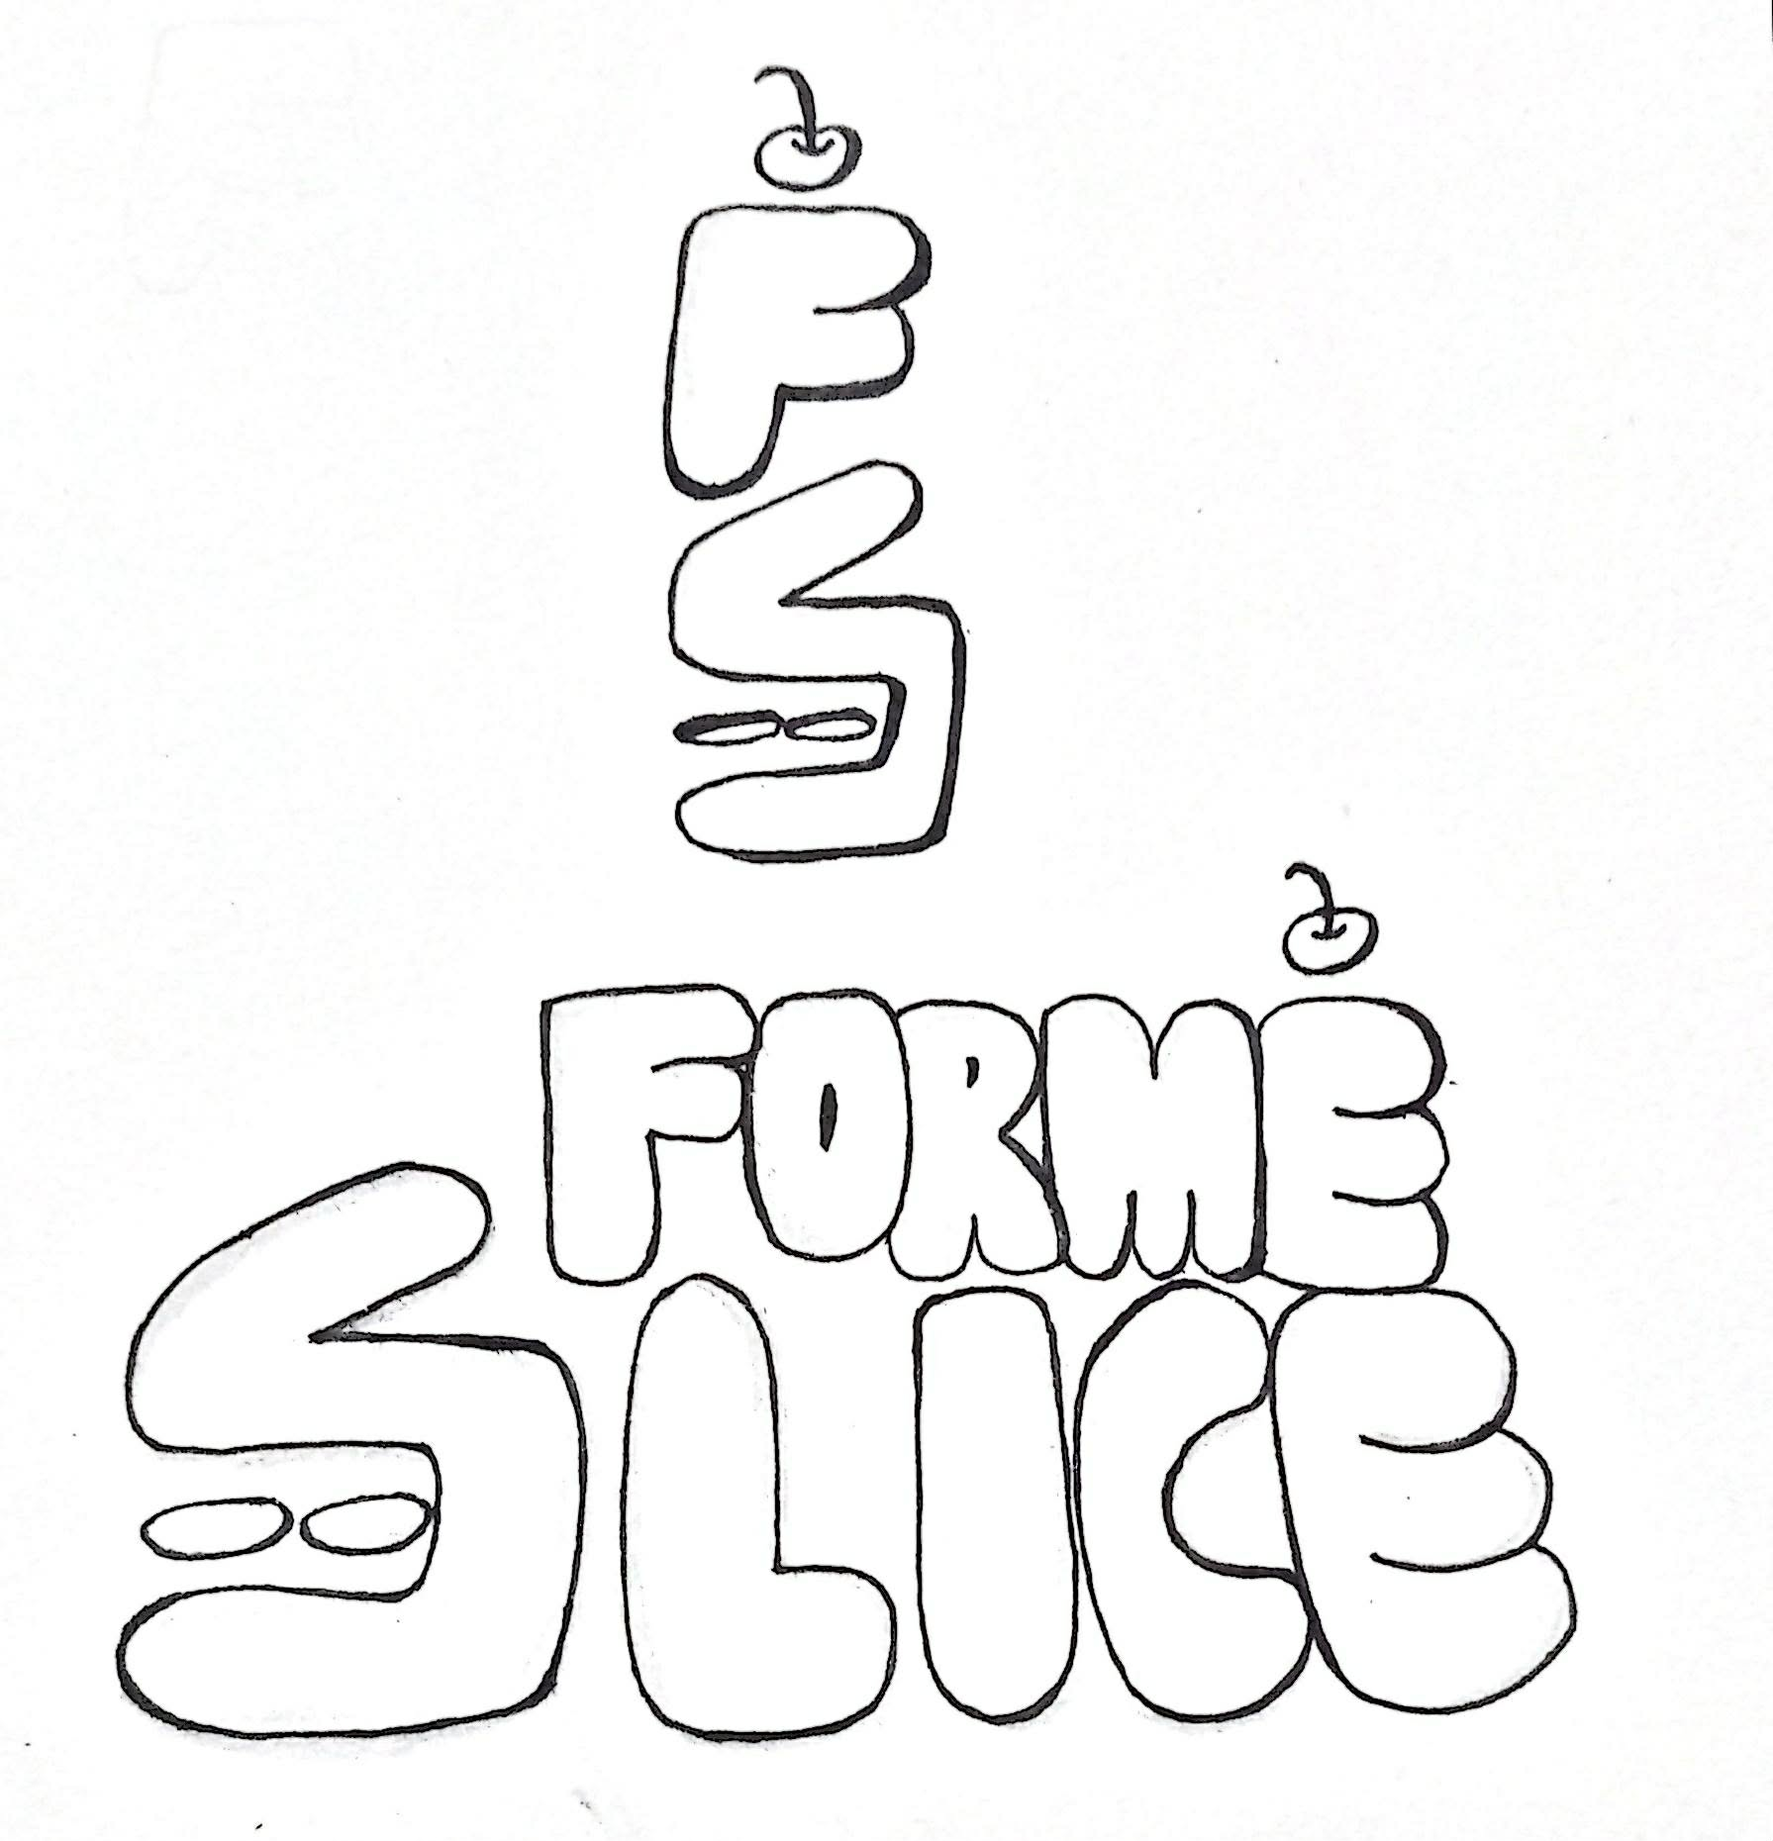
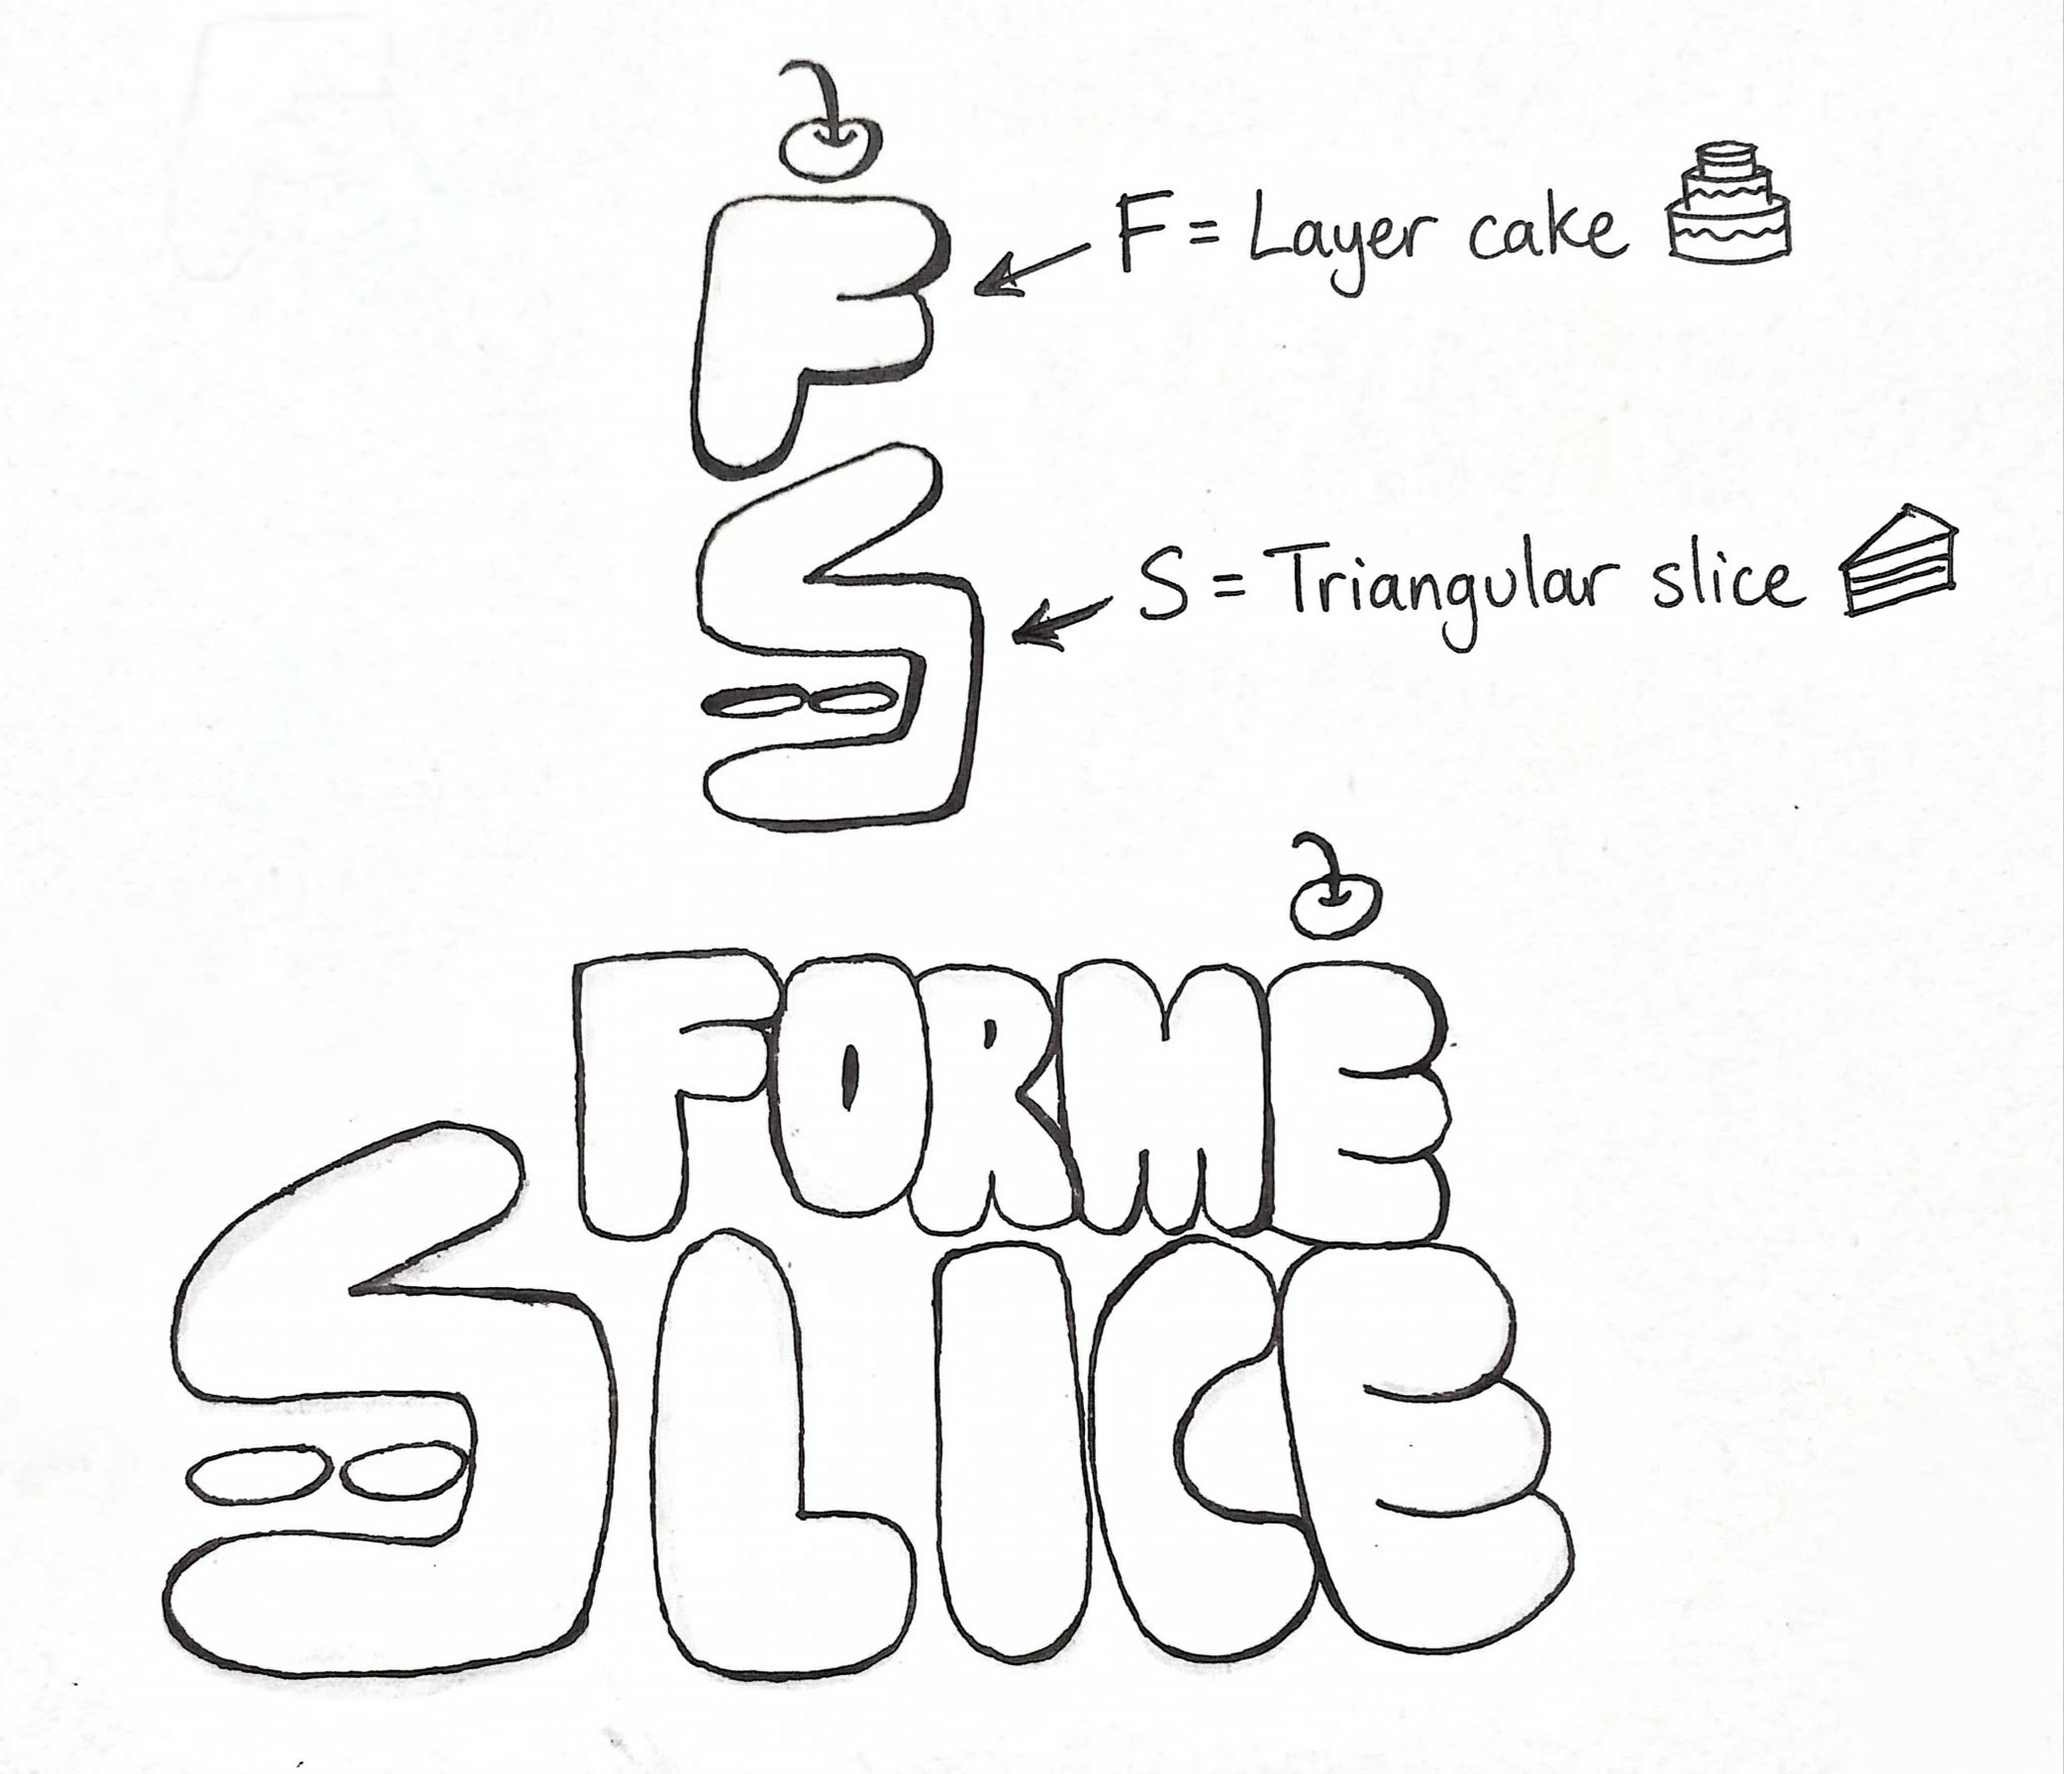
Add Sketch

diff --git a/src/app/page.tsx b/src/app/page.tsx
@@ -17,7 +17,7 @@ import { Logo } from "./logo";
 import { useVisibleAutoplay } from "./use-visible-autoplay";
 
 const archive = [
-  { src: "Sketch.jpg", title: "The original sketch", description: "The original hand-drawn ForméSlice identity study.", width: 1791, height: 1860 },
+  { src: "Sketch.jpg", title: "The original sketch", description: "The original hand-drawn ForméSlice identity study, with notes linking the F to a layer cake and the S to a triangular slice.", width: 2085, height: 1792 },
   { src: "Primarylogo.png", title: "The primary logo", description: "The updated ForméSlice primary wordmark, with rounded pink and cream lettering.", width: 1400, height: 940 },
   { src: "Secondarylogo.png", title: "The secondary logo", description: "The updated ForméSlice secondary symbol: a cherry-topped F and cake-shaped S.", width: 514, height: 918 },
   { src: "Firsteverbrandpost.png", title: "Our first official brand post", description: "Your Flavor. Your Formation. The first ForméSlice social media artwork.", width: 1080, height: 1080 },

diff --git a/src/app/identity.tsx b/src/app/identity.tsx
@@ -6,7 +6,7 @@ import { SyrupEdge } from "./syrup-edge";
 const marks = [
   { src: "Primarylogo.png", width: 1400, height: 940, title: "Primary logo", subtitle: "The full ForméSlice signature", index: 1 },
   { src: "Secondarylogo.png", width: 514, height: 918, title: "Secondary logo", subtitle: "A smaller, sweeter brand mark", index: 2 },
-  { src: "Sketch.jpg", width: 1791, height: 1860, title: "Original sketch", subtitle: "Where the identity began", index: 0 },
+  { src: "Sketch.jpg", width: 2085, height: 1792, title: "Original sketch", subtitle: "Where the identity began", index: 0 },
 ];
 const palette = [
   { name: "Strawberry pink", hex: "#E5B3C1", rgb: "229 · 179 · 193", role: "Warmth & playful personality", className: "pink" },
